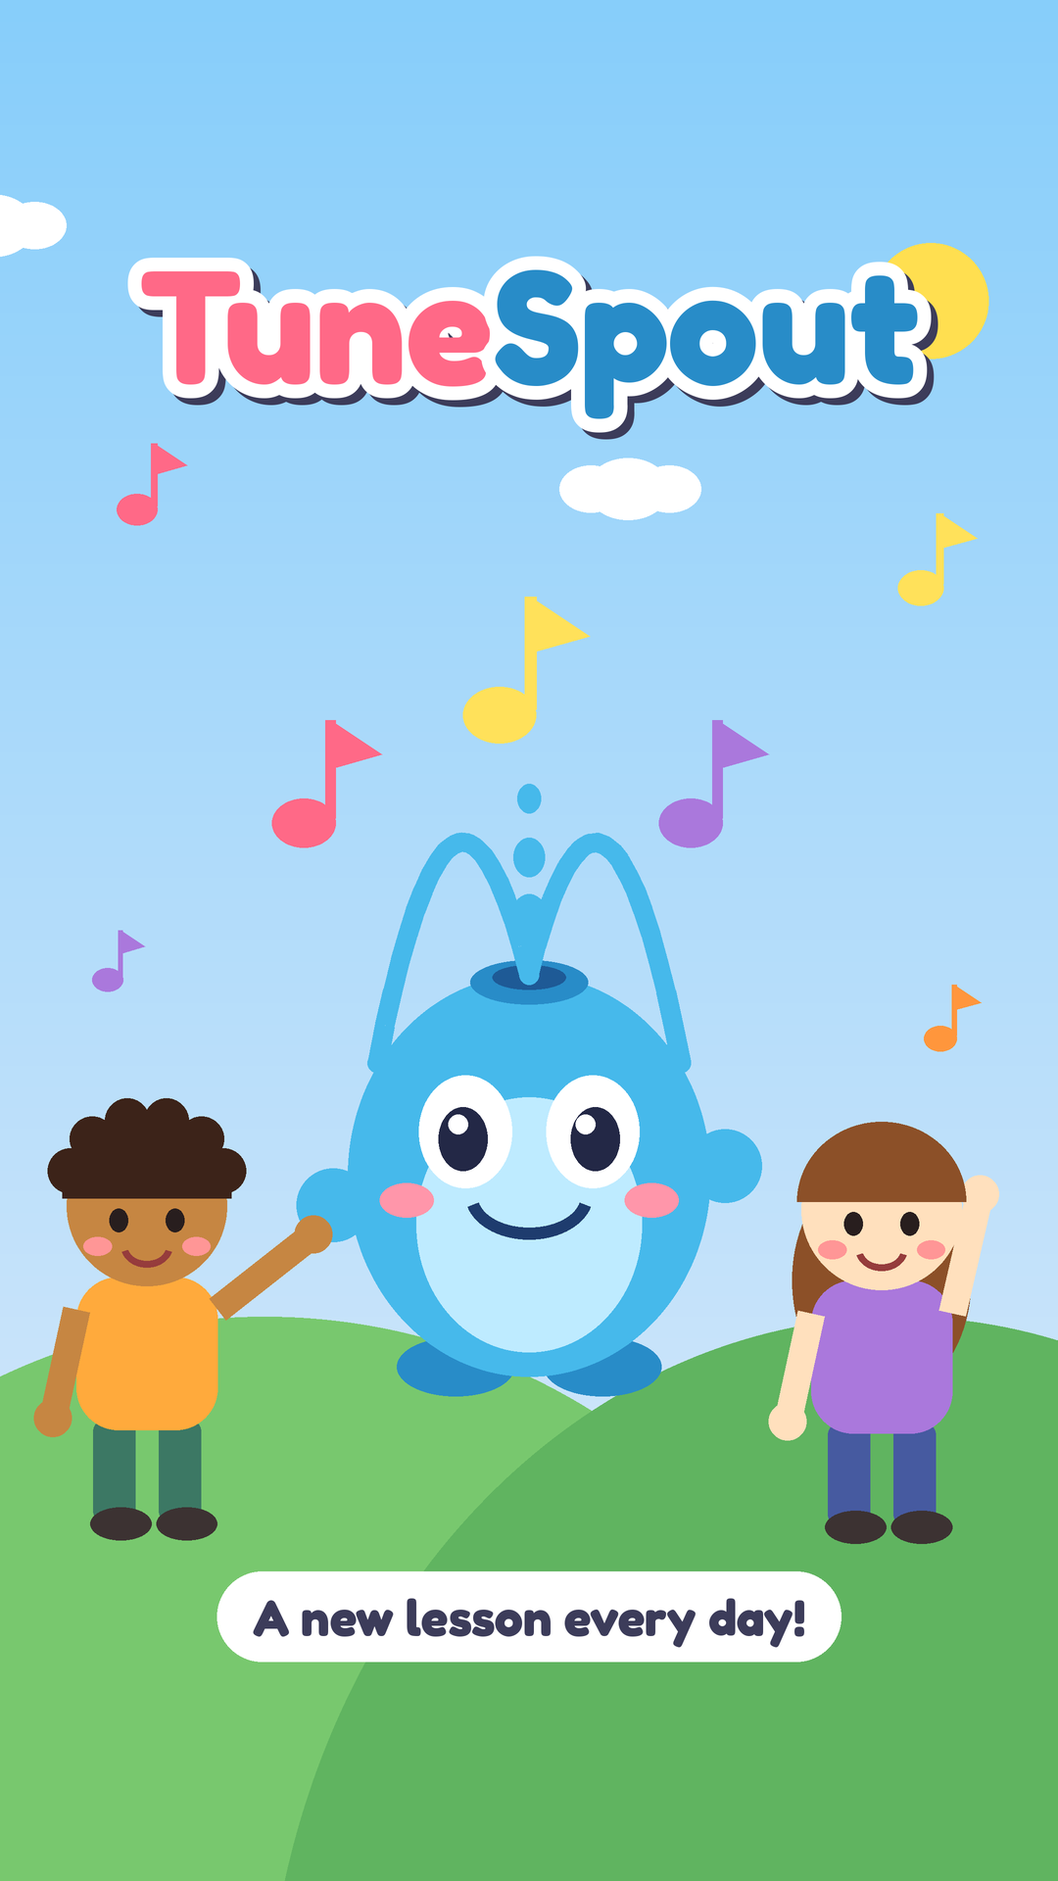
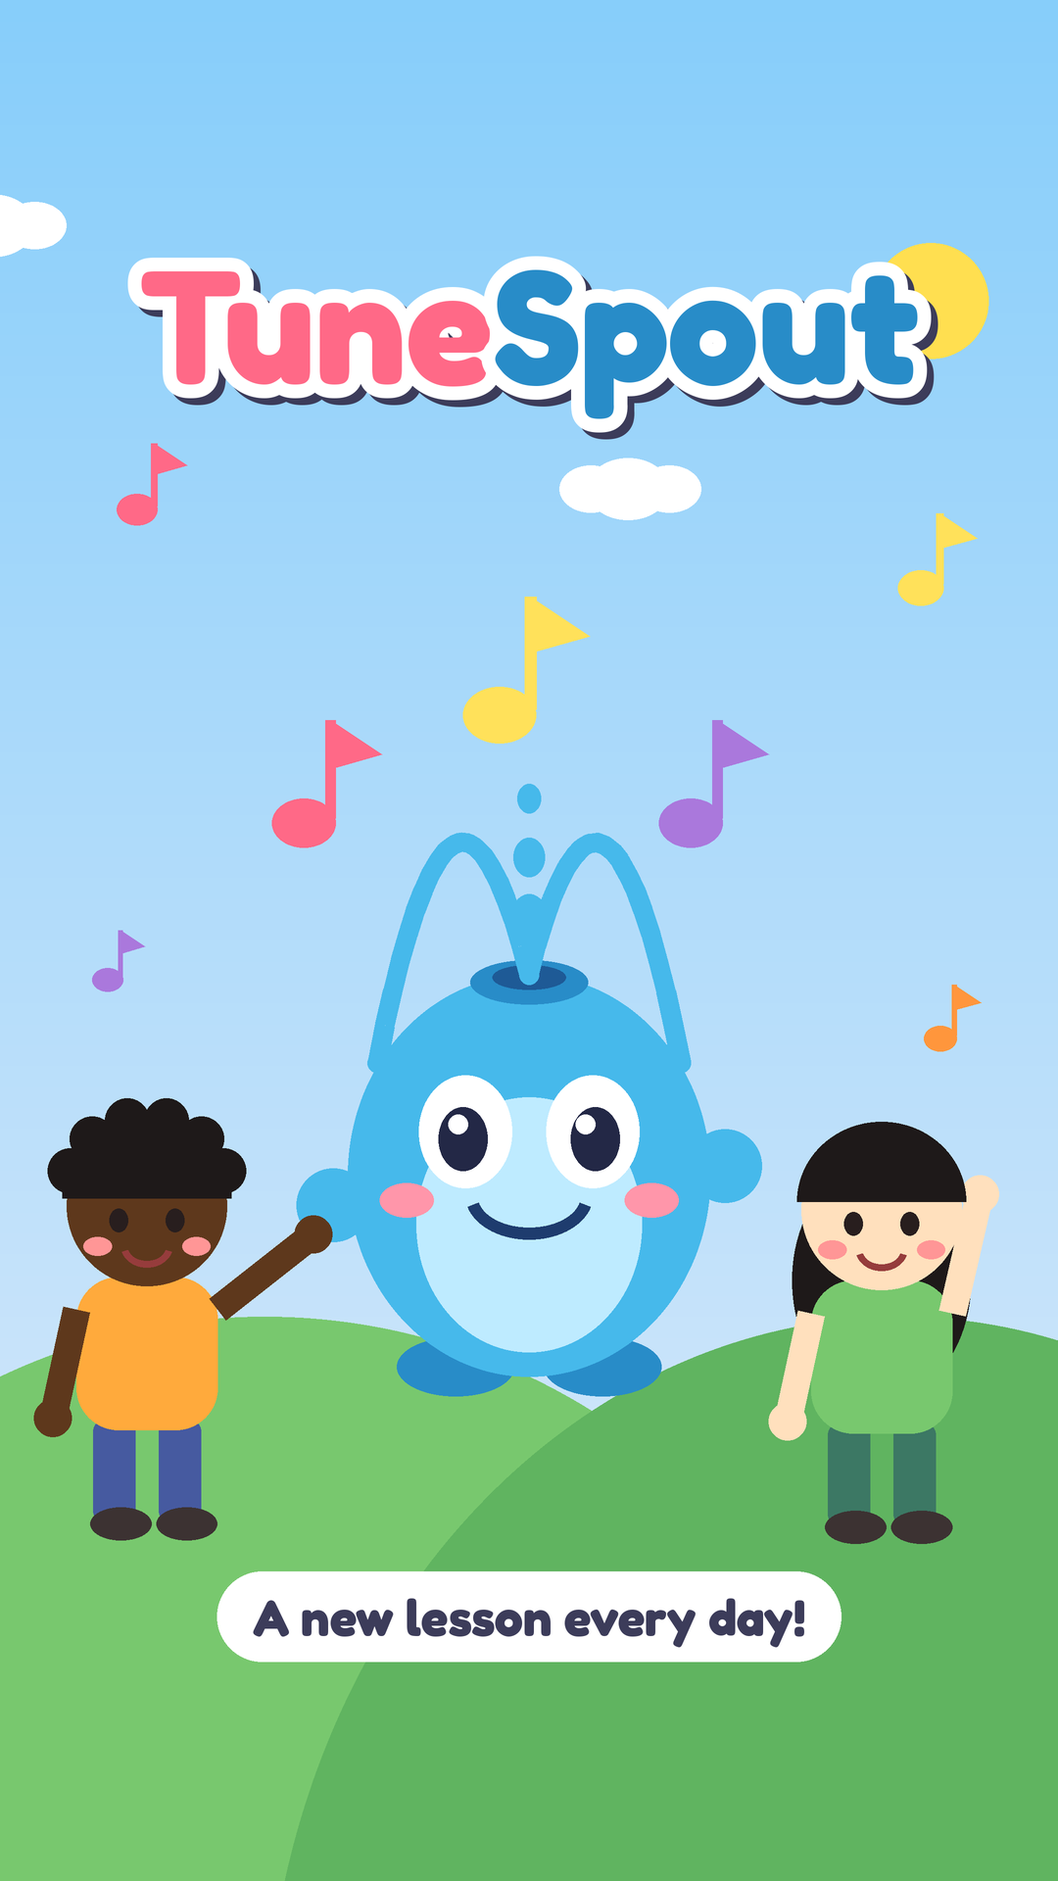
Recurring cast (4 kids, 2 animals) with replaceable extras; lesson length picked from each topic's range
Claude-Session: https://claude.ai/code/session_01PkwhTVXqQ97cJmTUXH9wgC

Changed region(s): [[0.0306, 0.5625, 0.3056, 0.8125], [0.7333, 0.5938, 0.9167, 0.8125]]

diff --git a/src/branding.py b/src/branding.py
@@ -12,6 +12,7 @@ from PIL import Image, ImageDraw, ImageFont
 
 import render
 from characters.common import ellipse
+from characters.cast import CAST_ANIMALS, CAST_KIDS, pal_genome
 from characters.creatures import draw_creature, genome
 from characters.kids import HAIR, PANTS, SHIRTS, SKIN, draw_kid
 
@@ -140,12 +141,8 @@ def _finish(img, w, h, rgb=True):
     return out.convert("RGB") if rgb else out
 
 
-BRAND_KIDS = [
-    dict(skin=SKIN[4], hair=HAIR[0], style="bun", shirt=SHIRTS[0], pants=PANTS[0]),
-    dict(skin=SKIN[1], hair=HAIR[3], style="short", shirt=SHIRTS[1], pants=PANTS[1]),
-    dict(skin=SKIN[3], hair=HAIR[4], style="curly", shirt=SHIRTS[2], pants=PANTS[2]),  # orange: shows on green hills
-    dict(skin=SKIN[0], hair=HAIR[2], style="long", shirt=SHIRTS[4], pants=PANTS[0]),
-]
+# the channel art shows the real cast (order: Amina, Leo, Kofi on the hills, Mei)
+BRAND_KIDS = [{k: v for k, v in CAST_KIDS[i].items() if k != "name"} for i in (0, 1, 3, 2)]
 
 
 def _sparkle_notes(d, spots):
@@ -187,8 +184,8 @@ def banner(w=2560, h=1440):
     # characters stand outside the safe area, on the hills
     for x, kid, ph in ((210, BRAND_KIDS[0], 0.0), (2350, BRAND_KIDS[1], 1.0)):
         draw_kid(d, x * K, 1335 * K, 2.2 * K, 0.5, ph, cheer=True, **kid)
-    for x, seed in ((480, 11), (2080, 23)):
-        draw_creature(d, x * K, 1340 * K, 2.4 * K, 0.5, x, genome(seed))
+    for x, key in ((480, "pip"), (2080, "mo")):
+        draw_creature(d, x * K, 1340 * K, 2.4 * K, 0.5, x, pal_genome({"cast": key}))
     # centre: mascot on a cloud, name and tagline (all inside the safe area)
     for dx, rx, ry in ((-95, 95, 34), (0, 130, 44), (100, 100, 34)):
         ellipse(d, (800 + dx) * K, 925 * K, rx * K, ry * K, WHITE)
@@ -210,6 +207,22 @@ def tiktok_cover(w=1080, h=1920):
     return _finish(img, w, h)
 
 
+def cast_sheet(w=1920, h=1080):
+    """'Meet the friends': the four main kids and two animal pals, with their names."""
+    img, d = _canvas(w, h)
+    stroked(d, w / 2 * K, 150 * K, "Meet the friends!", 120 * K, max_width=w * 0.8 * K)
+    xs = [0.09 + 0.15 * i for i in range(6)]
+    for fx, kid in zip(xs, CAST_KIDS):
+        draw_kid(d, fx * w * K, 800 * K, 2.6 * K, 0.5, fx * 9, cheer=False,
+                 **{k: v for k, v in kid.items() if k != "name"})
+        pill(d, fx * w * K, 900 * K, kid["name"], 54 * K)
+    for fx, (key, animal) in zip(xs[4:], CAST_ANIMALS.items()):
+        draw_creature(d, fx * w * K, 790 * K, 3.0 * K, 0.5, fx * 9, pal_genome({"cast": key}))
+        pill(d, fx * w * K, 900 * K, animal["name"], 54 * K)
+    pill(d, w / 2 * K, 1000 * K, "TuneSpout", 44 * K)
+    return _finish(img, w, h)
+
+
 HEADLINES = {
     "counting": "COUNT WITH US!", "addition": "LET'S ADD!", "subtraction": "TAKE AWAY!",
     "multiplication": "TIMES TABLES!", "division": "SHARE FAIRLY!", "plurals": "ONE & MANY!",
@@ -225,7 +238,7 @@ def thumbnail(lesson, w=1280, h=720):
 
     scenes = lesson["scenes"]
     kids = next(sc["kids"] for sc in scenes if sc.get("kids"))
-    pal = next((sc["pals"][0] for sc in scenes if sc.get("pals")), None)
+    pals = next((sc["pals"] for sc in scenes if sc.get("pals")), [])
     with_items = [sc for sc in scenes if sc.get("items")]
     items = (with_items[-1]["items"] if with_items else {"type": "ball", "count": 3})
 
@@ -233,8 +246,8 @@ def thumbnail(lesson, w=1280, h=720):
     # kids on the hills, cheering
     for x, kid, ph in ((0.10, kids[0], 0.0), (0.90, kids[-1], 1.0)):
         draw_kid(d, x * w * K, 708 * K, 2.1 * K, 0.5, ph, cheer=True, **_clean_kid(kid))
-    if pal:
-        draw_creature(d, 0.28 * w * K, 712 * K, 2.0 * K, 0.4, 0.0, genome(pal["seed"]))
+    for pal, fx in zip(pals, (0.28, 0.72)):
+        draw_creature(d, fx * w * K, 712 * K, 2.0 * K, 0.4, 0.0, pal_genome(pal))
 
     # the things from the lesson, as large as the space allows
     groups = items.get("split") or [items["count"]]
@@ -271,6 +284,7 @@ def write_all(out_dir):
         "youtube_banner_2560x1440.png": banner(),
         "youtube_watermark_150.png": watermark(150),
         "tiktok_cover_1080x1920.png": tiktok_cover(),
+        "cast.png": cast_sheet(),
     }
     for name, img in files.items():
         img.save(out / name, optimize=True)

diff --git a/src/characters/cast.py b/src/characters/cast.py
@@ -1,0 +1,69 @@
+"""The recurring cast: the faces viewers meet in every video.
+
+Main players: four kids (CAST_KIDS) and two animal friends (CAST_ANIMALS). Their looks
+are fixed here, so they never change from video to video. Everyone else on screen
+(background kids, invented objects) is an "extra" made fresh for each video and can
+be swapped freely. To change the cast, edit this file only.
+"""
+CAST_KIDS = [
+    {"name": "Amina", "skin": (141, 85, 36), "hair": (30, 25, 25), "style": "bun",
+     "shirt": (255, 105, 135), "pants": (70, 90, 160)},
+    {"name": "Leo", "skin": (241, 194, 125), "hair": (140, 80, 40), "style": "short",
+     "shirt": (80, 170, 230), "pants": (90, 90, 110)},
+    {"name": "Mei", "skin": (255, 224, 189), "hair": (30, 25, 25), "style": "long",
+     "shirt": (120, 200, 110), "pants": (60, 120, 100)},
+    {"name": "Kofi", "skin": (94, 56, 28), "hair": (30, 25, 25), "style": "curly",
+     "shirt": (255, 170, 60), "pants": (70, 90, 160)},
+]
+
+# Two friendly animal pals who join every lesson.
+CAST_ANIMALS = {
+    "pip": {"name": "Pip", "body": (255, 225, 130), "ears": "round", "tail": "puff",
+            "pattern": "spots", "scale": 1.0, "tall": 1.0},
+    "mo": {"name": "Mo", "body": (170, 210, 255), "ears": "floppy", "tail": "curl",
+           "pattern": "none", "scale": 1.05, "tall": 1.1},
+}
+
+
+def animal_genome(key):
+    """The drawing recipe for a cast animal (same format as characters.creatures.genome)."""
+    a = CAST_ANIMALS[key]
+    body = a["body"]
+    return {"body": body,
+            "belly": tuple(min(255, c + 45) for c in body),
+            "dark": tuple(int(c * 0.78) for c in body),
+            "ears": a["ears"], "tail": a["tail"], "pattern": a["pattern"],
+            "scale": a["scale"], "tall": a["tall"]}
+
+
+def cast_pals():
+    """The two animal friends as lesson data."""
+    return [{"cast": key, "name": a["name"]} for key, a in CAST_ANIMALS.items()]
+
+
+def pick_kids(rng, k):
+    """k different main kids, rotating through the cast."""
+    return [dict(kid) for kid in rng.sample(CAST_KIDS, k)]
+
+
+def extra_kids(rng, k=2):
+    """Random background kids (no names): the replaceable extras."""
+    from characters.kids import HAIR, PANTS, SHIRTS, SKIN, STYLES
+    return [{"skin": rng.choice(SKIN), "hair": rng.choice(HAIR), "style": rng.choice(STYLES),
+             "shirt": rng.choice(SHIRTS), "pants": rng.choice(PANTS)} for _ in range(k)]
+
+
+def check_cast():
+    """A few sanity rules, run by the tests."""
+    names = [k["name"] for k in CAST_KIDS] + [a["name"] for a in CAST_ANIMALS.values()]
+    assert len(set(names)) == len(names), "cast names must be different"
+    assert 3 <= len(CAST_KIDS) <= 5, "keep three to five main kids"
+    assert len(CAST_ANIMALS) == 2
+    return True
+
+
+
+def pal_genome(pal):
+    """Drawing recipe for any pal in a lesson: a cast animal or an invented one."""
+    from characters.creatures import genome
+    return animal_genome(pal["cast"]) if "cast" in pal else genome(pal["seed"])

diff --git a/src/generators/common.py b/src/generators/common.py
@@ -2,11 +2,8 @@
 so the same seed always gives the same lesson and nothing needs to be stored."""
 import random
 
-from characters.creatures import new_pal
-from characters.kids import HAIR, PANTS, SHIRTS, SKIN, STYLES
+from characters.cast import cast_pals, extra_kids, pick_kids
 
-NAMES = ["Amina", "Leo", "Zuri", "Mateo", "Mei", "Sam", "Ravi", "Lila", "Kofi",
-         "Nia", "Omar", "Ella", "Tariq", "Ana", "Jin", "Sara"]
 # Things kids can count. Only words with a regular plural (add an s) belong here;
 # any word works for drawing, because unknown words get an invented object.
 _THINGS = ["apple", "star", "ball", "flower", "kite", "balloon", "cup", "book", "cookie",
@@ -32,30 +29,21 @@ def noun(item: str, n: int) -> str:
 
 
 def make_kids(rng: random.Random, k: int) -> list:
-    """k different kids with varied skin, hair and clothes."""
-    kids = []
-    for name in rng.sample(NAMES, k):
-        kids.append({
-            "name": name,
-            "skin": list(rng.choice(SKIN)),
-            "hair": list(rng.choice(HAIR)),
-            "style": rng.choice(STYLES),
-            "shirt": list(rng.choice(SHIRTS)),
-            "pants": list(rng.choice(PANTS)),
-        })
-    return kids
+    """k of the recurring main kids (see characters/cast.py)."""
+    return pick_kids(rng, k)
 
 
 def lesson(rng, title, description, tags, scenes):
     tune = rng.choice(TUNES)
-    # Often add an invented sidekick. Kids stay the main characters: the pal is
-    # small, stands beside them, and has no lines of its own.
-    if scenes and "kids" in scenes[0] and rng.random() < 0.6:
-        pal = new_pal(rng)
+    # The two cast animals join every lesson beside the kids. Two replaceable extras
+    # (random background kids) stand behind, so each video looks a little different.
+    if scenes and "kids" in scenes[0]:
+        pals, extras = cast_pals(), extra_kids(rng, 2)
         for sc in scenes:
-            sc["pals"] = [pal]
-        scenes.insert(1, {"kids": scenes[0]["kids"], "pals": [pal], "cheer": True,
-                          "line": f"And this is our new friend {pal['name']}!"})
+            sc["pals"] = pals
+            sc["extras"] = extras
+        scenes.insert(1, {"kids": scenes[0]["kids"], "pals": pals, "extras": extras, "cheer": True,
+                          "line": f"Look! {pals[0]['name']} and {pals[1]['name']} came to play too!"})
     return {
         "title": title,
         "description": description,

diff --git a/tests/test_lessons.py b/tests/test_lessons.py
@@ -115,7 +115,7 @@ def test_lessons_with_pals_keep_kids_as_stars():
         for seed in range(40):
             lesson = generate(topic, seed)
             for sc in lesson["scenes"]:
-                assert len(sc.get("pals", [])) <= 1
+                assert len(sc.get("pals", [])) <= 2
                 if sc.get("pals"):
                     assert len(sc["kids"]) >= 1  # a pal never appears without a kid
 
@@ -168,6 +168,35 @@ def test_later_episodes_are_scheduled_in_order_not_all_at_once():
     second = buffer_post.build_input("youtube", meta, "u", env, episode=1)
     assert first["mode"] == "shareNow" and "dueAt" not in first
     assert second["mode"] == "customScheduled" and second["dueAt"].endswith("Z")
+
+
+def test_cast_is_the_same_every_video_and_extras_change():
+    from characters.cast import CAST_ANIMALS, CAST_KIDS, check_cast
+    from generators import GENERATORS, generate
+    assert check_cast()
+    cast_names = {k["name"] for k in CAST_KIDS}
+    looks = {k["name"]: k for k in CAST_KIDS}
+    extras_seen = set()
+    for topic in GENERATORS:
+        for seed in (1, 2, 3):
+            lesson = generate(topic, seed)
+            for sc in lesson["scenes"]:
+                for kid in sc.get("kids", []):
+                    assert kid["name"] in cast_names and kid == looks[kid["name"]], "a main kid changed looks"
+            with_kids = [sc for sc in lesson["scenes"] if "kids" in sc]
+            assert with_kids and all([p["cast"] for p in sc["pals"]] == list(CAST_ANIMALS) for sc in with_kids)
+            extras_seen.add(str(with_kids[0]["extras"]))
+    assert len(extras_seen) > 5, "extras should differ from video to video"
+
+
+def test_each_topic_picks_its_own_length_inside_its_range():
+    from generators import MAX_MINUTES, MIN_MINUTES, TOPIC_MINUTES, TOPICS, target_minutes
+    assert set(TOPIC_MINUTES) == set(TOPICS)
+    for topic, (low, high) in TOPIC_MINUTES.items():
+        assert MIN_MINUTES <= low <= high <= MAX_MINUTES
+        picks = {target_minutes(topic, seed) for seed in range(60)}
+        assert all(low <= m <= high for m in picks)
+    assert target_minutes("division", 5) == target_minutes("division", 5)  # repeatable
 
 
 def test_long_lessons_are_safe_long_enough_and_fit_in_parts():

diff --git a/src/kids_scene.py b/src/kids_scene.py
@@ -4,13 +4,16 @@ Scene keys (all optional except line):
   kids:     list of kid dicts (max 2 looks best)
   items:    {type, count, split:[group sizes], new_from, ghost}
   equation: big text banner, e.g. "2 + 3 = 5"
+  pals:     animal friends: {"cast": "pip"} for a cast animal, or {"seed": n} for an invented one
+  extras:   small background kids (no names), drawn behind the main kids
   cheer:    true to make the kids jump for joy
   line:     the sentence spoken and shown on screen
 """
 from PIL import Image, ImageDraw
 
 import render
-from characters.creatures import draw_creature, genome
+from characters.cast import pal_genome
+from characters.creatures import draw_creature
 from characters.items import draw_item
 from characters.kids import draw_kid
 
@@ -33,6 +36,11 @@ def draw_kids_scene(scene, t, size=(render.W, render.H)):
     d = ImageDraw.Draw(img)
     render.background(d, w, h, t, pond=False)
 
+    # extras stand far back and small, so the main players stay the stars
+    for i, kid in enumerate(scene.get("extras", [])):
+        draw_kid(d, w * (0.40 + 0.20 * i), h * 0.73, SS * 0.62, t, phase=i * 2.1 + 0.7,
+                 cheer=bool(scene.get("cheer")), **_clean_kid(kid))
+
     # kids stand at the sides so the middle stays free for the things they use
     kids = scene.get("kids", [])
     xs = KID_X.get(len(kids), [(i + 1) / (len(kids) + 1) for i in range(len(kids))])
@@ -41,9 +49,10 @@ def draw_kids_scene(scene, t, size=(render.W, render.H)):
                  cheer=bool(scene.get("cheer")), **_clean_kid(kid))
 
     # an invented sidekick stands between a kid and the middle of the scene
-    for i, pal in enumerate(scene.get("pals", [])):
-        fx = 0.30 + 0.40 * i if len(kids) != 1 else 0.28
-        draw_creature(d, w * fx, h * 0.74, SS * 1.0, t, i * 0.8, genome(pal["seed"]))
+    pals = scene.get("pals", [])
+    pal_x = [0.28, 0.86] if len(kids) == 1 else [0.30, 0.70]
+    for i, pal in enumerate(pals):
+        draw_creature(d, w * (pal_x[i] if i < 2 else 0.5), h * 0.74, SS * 1.0, t, i * 0.8, pal_genome(pal))
 
     items = scene.get("items")
     if items:

diff --git a/src/generators/__init__.py b/src/generators/__init__.py
@@ -1,4 +1,6 @@
 """Lesson generators. Each takes a seed and returns a lesson dict."""
+import random
+
 from generators.language_lessons import plurals
 from generators.math_lessons import addition, counting, division, multiplication, subtraction
 from generators.sports_lessons import fair_play, sports_names, team_score
@@ -15,6 +17,30 @@ GENERATORS = {
     "fairplay": fair_play,
 }
 TOPICS = list(GENERATORS)
+
+# How long each topic's lesson should run, in minutes: (shortest, longest).
+# Easy ideas stay short, harder ones get more examples. Anything over 3 minutes is
+# cut into parts of at most 3 minutes (see episodes.py). Edit freely; the whole
+# range is kept between MIN_MINUTES and MAX_MINUTES.
+MIN_MINUTES, MAX_MINUTES = 1.0, 9.0
+TOPIC_MINUTES = {
+    "counting": (1.0, 2.0),
+    "plurals": (1.5, 3.0),
+    "fairplay": (1.5, 3.0),
+    "sports": (2.0, 4.0),
+    "addition": (2.0, 4.0),
+    "subtraction": (2.0, 4.0),
+    "teamscore": (2.0, 4.0),
+    "multiplication": (3.0, 6.0),
+    "division": (3.0, 6.0),
+}
+
+
+def target_minutes(topic: str, seed: int) -> float:
+    """Today's length for a topic: a repeatable pick inside its range."""
+    low, high = TOPIC_MINUTES[topic]
+    low, high = max(low, MIN_MINUTES), min(high, MAX_MINUTES)
+    return round(random.Random(seed * 31 + 7).uniform(low, high) * 4) / 4  # nearest quarter minute
 
 
 def generate(topic: str, seed: int) -> dict:
@@ -33,6 +59,7 @@ def generate_long(topic: str, seed: int, minutes: float) -> dict:
     after another, until it runs about `minutes`. make_video cuts it into parts of
     three minutes at most. Every segment keeps its own opening; all but the last
     drop their closing line so the show only says goodbye once."""
+    minutes = min(max(minutes, MIN_MINUTES), MAX_MINUTES)
     lesson = generate(topic, seed)
     segments = [list(lesson["scenes"])]
     n = 0

diff --git a/src/generate_lesson.py b/src/generate_lesson.py
@@ -11,7 +11,7 @@ import datetime
 import json
 from pathlib import Path
 
-from generators import TOPICS, generate, generate_long
+from generators import TOPICS, estimate_seconds, generate, generate_long, target_minutes
 from safety import check_lesson
 
 
@@ -19,8 +19,9 @@ def main():
     ap = argparse.ArgumentParser()
     ap.add_argument("--topic", default="auto", choices=["auto", *TOPICS])
     ap.add_argument("--seed", type=int, default=None)
-    ap.add_argument("--minutes", type=float, default=0,
-                    help="make a longer lesson of about this many minutes (cut into parts of 3 minutes at most)")
+    ap.add_argument("--minutes", default="auto",
+                    help="'auto' (default) picks a length from the topic's range; or a number of minutes. "
+                         "Anything over 3 minutes is cut into parts of 3 minutes at most")
     ap.add_argument("--out", default="out/lesson.json")
     args = ap.parse_args()
 
@@ -28,12 +29,13 @@ def main():
     seed = args.seed if args.seed is not None else int(today.strftime("%Y%m%d"))
     topic = TOPICS[today.toordinal() % len(TOPICS)] if args.topic == "auto" else args.topic
 
-    lesson = generate_long(topic, seed, args.minutes) if args.minutes else generate(topic, seed)
+    minutes = target_minutes(topic, seed) if args.minutes in ("auto", "") else float(args.minutes)
+    lesson = generate_long(topic, seed, minutes)
     check_lesson(lesson)
     out = Path(args.out)
     out.parent.mkdir(parents=True, exist_ok=True)
     out.write_text(json.dumps(lesson, indent=2, ensure_ascii=False))
-    print(f"{topic} (seed {seed}): {lesson['title']}")
+    print(f"{topic} (seed {seed}): {lesson['title']}, about {estimate_seconds(lesson['scenes']) / 60:.1f} min")
 
 
 if __name__ == "__main__":

diff --git a/README.md b/README.md
@@ -39,7 +39,7 @@ Posting goes through **Buffer**, so you never deal with YouTube or TikTok develo
 Buffer's free plan allows 3,000 API requests per 30 days, far more than one post a day needs. Buffer cannot set a custom YouTube thumbnail; the generated thumbnail is still saved in each run's downloadable files.
 
 ## Episodes
-No video is longer than **3 minutes**. A lesson up to 3 minutes is one video. A longer one is cut between scenes into the fewest parts that fit, as equal in length as possible (a 7-minute lesson becomes three parts of about 2:20), titled "... (Part 1 of 3)". Each part has its own video, vertical video, description and hashtags. Lessons are 20-55 seconds by default. For longer ones, run the workflow by hand with `minutes` (say 8), or set the repo variable `LESSON_MINUTES` to make every daily lesson that long. A long lesson is the same topic with new friends and new examples, one segment after another. The first part is sent to Buffer right away and the rest are scheduled one hour apart, in order. If a post fails part-way through a multi-part day, the retry sends the whole set again, so check for a duplicate part.
+No video is longer than **3 minutes**. A lesson up to 3 minutes is one video. A longer one is cut between scenes into the fewest parts that fit, as equal in length as possible (a 7-minute lesson becomes three parts of about 2:20), titled "... (Part 1 of 3)". Each part has its own video, vertical video, description and hashtags. Each topic has its own length range (counting 1-2 minutes, division 3-6) in `TOPIC_MINUTES` in `src/generators/__init__.py`, and each day picks a length inside it. To force a length, run the workflow by hand with `minutes`, or set the repo variable `LESSON_MINUTES`. A long lesson is the same topic with new friends and new examples, one segment after another. The first part is sent to Buffer right away and the rest are scheduled one hour apart, in order. If a post fails part-way through a multi-part day, the retry sends the whole set again, so check for a duplicate part.
 
 ## Descriptions and hashtags
 `src/metadata.py` writes them from the lesson itself (topic, kids' names, age range), so nobody types captions. YouTube gets a full description with 8 hashtags and search tags. TikTok gets a short caption with 5 hashtags. Edit the topic tables in that file to change the wording. Tests check the length limits and that generated text avoids unsafe words.
@@ -58,6 +58,9 @@ The system makes its own visuals for each video, with no drawings to store:
 - **Kids:** every lesson picks kids with different skin tones, hair and clothes.
 - **Safety:** designs are round and gentle, and invented names are checked against the blocked words, including inside longer names.
 To add a new object, add one entry to `LIBRARY` (see the shape format at the top of `src/characters/shapes.py`).
+
+## The cast
+Four main kids (Amina, Leo, Mei, Kofi) and two animal friends (Pip and Mo) appear in every video, always looking the same. Two to three kids from the cast lead each lesson. Two small background kids with random looks stand behind them: these are extras, made fresh for each video. To change the cast, edit `src/characters/cast.py`. `branding/cast.png` is a picture of everyone for channel art.
 
 ## Branding
 The channel brand (name **TuneSpout**, mascot Spout, colors, Fredoka font, bios) is in `branding/BRAND.md`. Ready-to-upload images are in `branding/`: profile picture (YouTube and TikTok), YouTube banner and watermark, and a TikTok cover. Regenerate them with `python tools/make_brand_assets.py`. Every video also gets its own thumbnail (`out/thumbnail.png`, 1280x720), built from the lesson's kids and objects and set on YouTube after upload.
